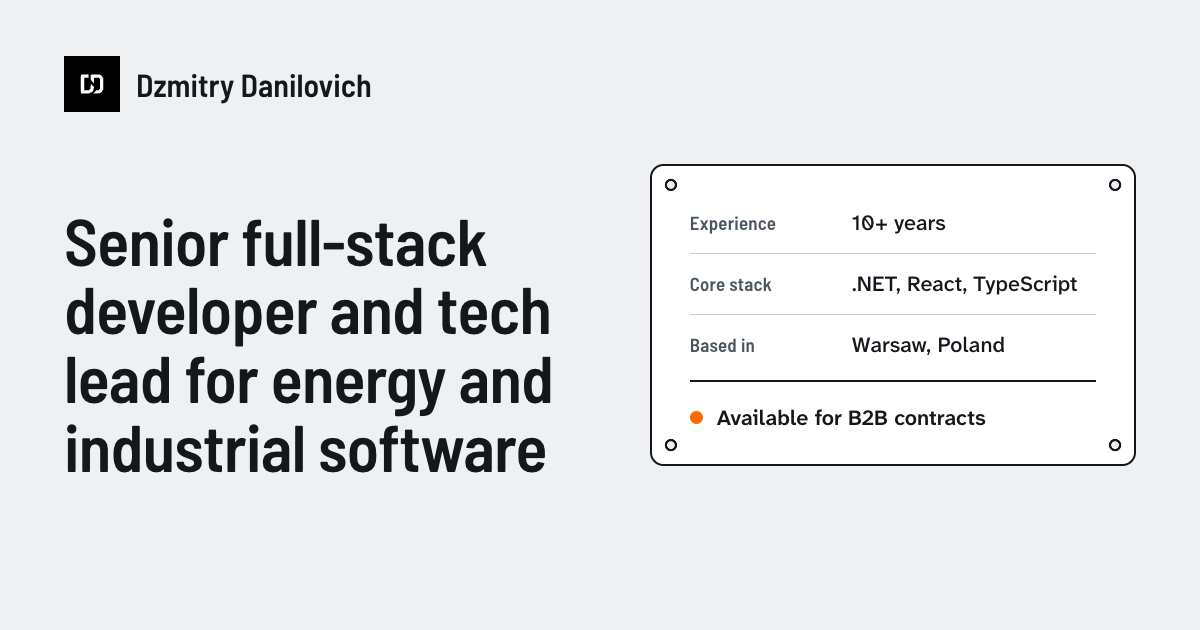
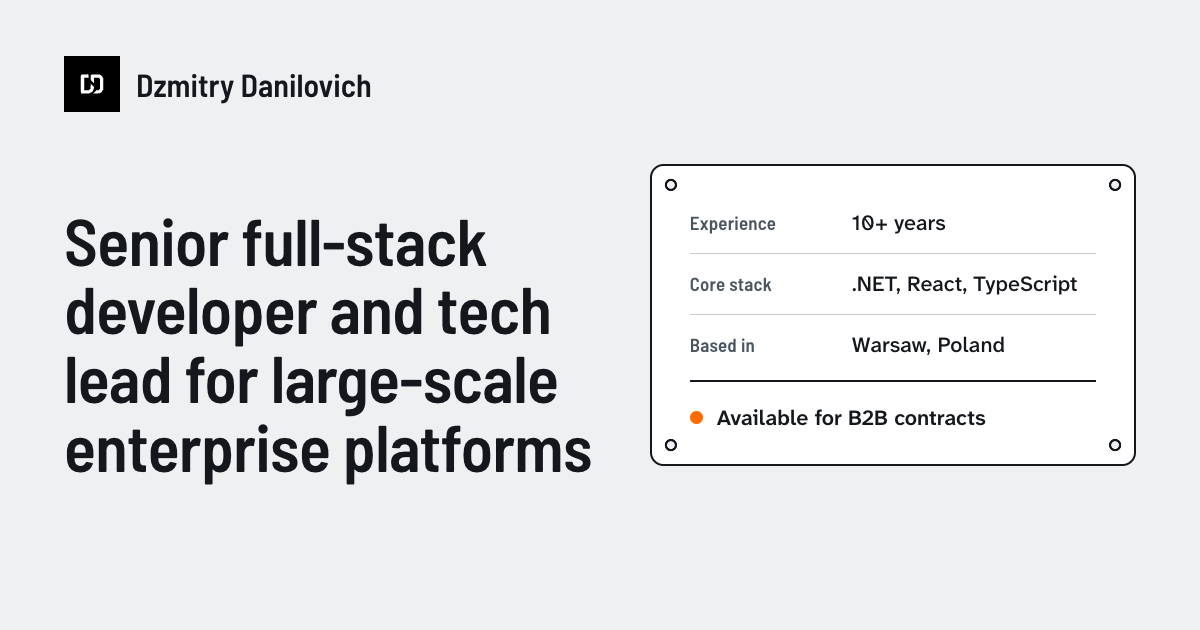
Lead with role and scale instead of the energy sector

Changed region(s): [[0.0617, 0.5429, 0.4933, 0.7841]]

diff --git a/index.html b/index.html
@@ -23,7 +23,7 @@
     <meta property="og:image:width" content="1200">
     <meta property="og:image:height" content="630">
     <meta property="og:image:alt"
-        content="Dzmitry Danilovich: senior full-stack developer and tech lead for energy and industrial software">
+        content="Dzmitry Danilovich: senior full-stack developer and tech lead for large-scale enterprise platforms">
     <meta property="og:locale" content="en_US">
     <meta property="og:locale:alternate" content="pl_PL">
     <meta name="twitter:card" content="summary_large_image">
@@ -108,11 +108,12 @@
         <section id="home" class="hero">
             <div class="container hero-grid">
                 <div class="hero-text">
-                    <h1 data-i18n="hero.title">Senior full-stack developer and tech lead for energy and industrial
-                        software</h1>
-                    <p class="lead" data-i18n="hero.subtitle">For more than 10 years I have built large-scale .NET
-                        and React platforms: industrial safety, risk management and workforce management systems for
-                        global enterprise clients. Available for B2B contracts from Warsaw.</p>
+                    <h1 data-i18n="hero.title">Senior full-stack developer and tech lead for large-scale enterprise
+                        platforms</h1>
+                    <p class="lead" data-i18n="hero.subtitle">More than 10 years of building .NET and React
+                        platforms for global enterprise clients. As a frontend tech lead I run teams and technical
+                        strategy across complex monorepos and multiple SPAs. Available for B2B contracts from
+                        Warsaw.</p>
                     <div class="actions">
                         <a class="btn-primary" href="mailto:contact@DzmitryDanilovich.dev" data-i18n="hero.cta">Email
                             me</a>
@@ -132,28 +133,24 @@
                             <dd data-i18n="plate.role_value">Full-stack developer, frontend tech lead</dd>
                         </div>
                         <div class="spec-row" style="--i: 2">
-                            <dt data-i18n="plate.sectors">Sectors</dt>
-                            <dd data-i18n="plate.sectors_value">Energy, industry</dd>
-                        </div>
-                        <div class="spec-row" style="--i: 3">
                             <dt data-i18n="plate.stack">Core stack</dt>
                             <dd>.NET, React, TypeScript</dd>
                         </div>
-                        <div class="spec-row" style="--i: 4">
+                        <div class="spec-row" style="--i: 3">
                             <dt data-i18n="plate.cert">Certification</dt>
                             <dd><a href="https://www.credly.com/badges/9c1a0baa-0e7f-4d86-97f1-602ca0cb815d/public_url"
                                     target="_blank" rel="noopener">AWS Certified Developer – Associate</a></dd>
                         </div>
-                        <div class="spec-row" style="--i: 5">
+                        <div class="spec-row" style="--i: 4">
                             <dt data-i18n="plate.contract">Contract</dt>
                             <dd data-i18n="plate.contract_value">B2B, long-term</dd>
                         </div>
-                        <div class="spec-row" style="--i: 6">
+                        <div class="spec-row" style="--i: 5">
                             <dt data-i18n="plate.location">Based in</dt>
                             <dd data-i18n="plate.location_value">Warsaw, Poland</dd>
                         </div>
                     </dl>
-                    <p class="status" style="--i: 7">
+                    <p class="status" style="--i: 6">
                         <span class="lamp" aria-hidden="true"></span>
                         <span data-i18n="plate.status">Available for B2B contracts</span>
                     </p>
@@ -240,8 +237,8 @@
                                     target="_blank" rel="noopener" data-i18n="proof.aws">AWS certification on
                                     Credly</a></li>
                             <li><a class="link" href="https://github.com/DzmitryDanilovich/teapot" target="_blank"
-                                    rel="noopener" data-i18n="proof.code">teapot on GitHub: a Next.js app with unit
-                                    tests, end-to-end tests and CI</a></li>
+                                    rel="noopener" data-i18n="proof.code">Side project on GitHub: teapot
+                                    (Next.js)</a></li>
                             <li><a class="link" href="https://linkedin.com/in/dd221x0/" target="_blank"
                                     rel="noopener" data-i18n="proof.linkedin">Career history on LinkedIn</a></li>
                         </ul>

diff --git a/assets/js/modules/translations.ts b/assets/js/modules/translations.ts
@@ -7,8 +7,8 @@ const en = {
         contact: "Contact"
     },
     hero: {
-        title: "Senior full-stack developer and tech lead for energy and industrial software",
-        subtitle: "For more than 10 years I have built large-scale .NET and React platforms: industrial safety, risk management and workforce management systems for global enterprise clients. Available for B2B contracts from Warsaw.",
+        title: "Senior full-stack developer and tech lead for large-scale enterprise platforms",
+        subtitle: "More than 10 years of building .NET and React platforms for global enterprise clients. As a frontend tech lead I run teams and technical strategy across complex monorepos and multiple SPAs. Available for B2B contracts from Warsaw.",
         cta: "Email me"
     },
     plate: {
@@ -17,8 +17,6 @@ const en = {
         experience_value: "10+ years",
         role: "Role",
         role_value: "Full-stack developer, frontend tech lead",
-        sectors: "Sectors",
-        sectors_value: "Energy, industry",
         stack: "Core stack",
         cert: "Certification",
         contract: "Contract",
@@ -36,7 +34,7 @@ const en = {
     proof: {
         title: "Check for yourself",
         aws: "AWS certification on Credly",
-        code: "teapot on GitHub: a Next.js app with unit tests, end-to-end tests and CI",
+        code: "Side project on GitHub: teapot (Next.js)",
         linkedin: "Career history on LinkedIn"
     },
     services: {
@@ -104,8 +102,8 @@ const pl: typeof en = {
         contact: "Kontakt"
     },
     hero: {
-        title: "Senior full-stack developer i tech lead w projektach dla energetyki i przemysłu",
-        subtitle: "Od ponad 10 lat buduję duże platformy w .NET i React: systemy bezpieczeństwa przemysłowego, zarządzania ryzykiem i zarządzania personelem dla globalnych klientów enterprise. Współpraca B2B z Warszawy.",
+        title: "Senior full-stack developer i tech lead dla dużych platform enterprise",
+        subtitle: "Ponad 10 lat budowania platform w .NET i React dla globalnych klientów enterprise. Jako tech lead frontendu prowadzę zespoły i strategię techniczną w złożonych monorepo i wielu aplikacjach SPA. Współpraca B2B z Warszawy.",
         cta: "Napisz do mnie"
     },
     plate: {
@@ -114,8 +112,6 @@ const pl: typeof en = {
         experience_value: "ponad 10 lat",
         role: "Rola",
         role_value: "Full-stack developer, tech lead frontendu",
-        sectors: "Branże",
-        sectors_value: "Energetyka, przemysł",
         stack: "Główny stack",
         cert: "Certyfikat",
         contract: "Współpraca",
@@ -133,7 +129,7 @@ const pl: typeof en = {
     proof: {
         title: "Do sprawdzenia",
         aws: "Certyfikat AWS w Credly",
-        code: "teapot na GitHubie: aplikacja Next.js z testami jednostkowymi, testami end-to-end i CI",
+        code: "Projekt poboczny na GitHubie: teapot (Next.js)",
         linkedin: "Historia zawodowa na LinkedIn"
     },
     services: {

diff --git a/tools/og.html b/tools/og.html
@@ -67,7 +67,7 @@
             <img src="/assets/images/logo-clean.svg" alt="" width="56" height="56">
             <span>Dzmitry Danilovich</span>
         </div>
-        <h1>Senior full-stack developer and tech lead for energy and industrial software</h1>
+        <h1>Senior full-stack developer and tech lead for large-scale enterprise platforms</h1>
         <aside class="plate">
             <dl class="spec spec-compact">
                 <div class="spec-row">
